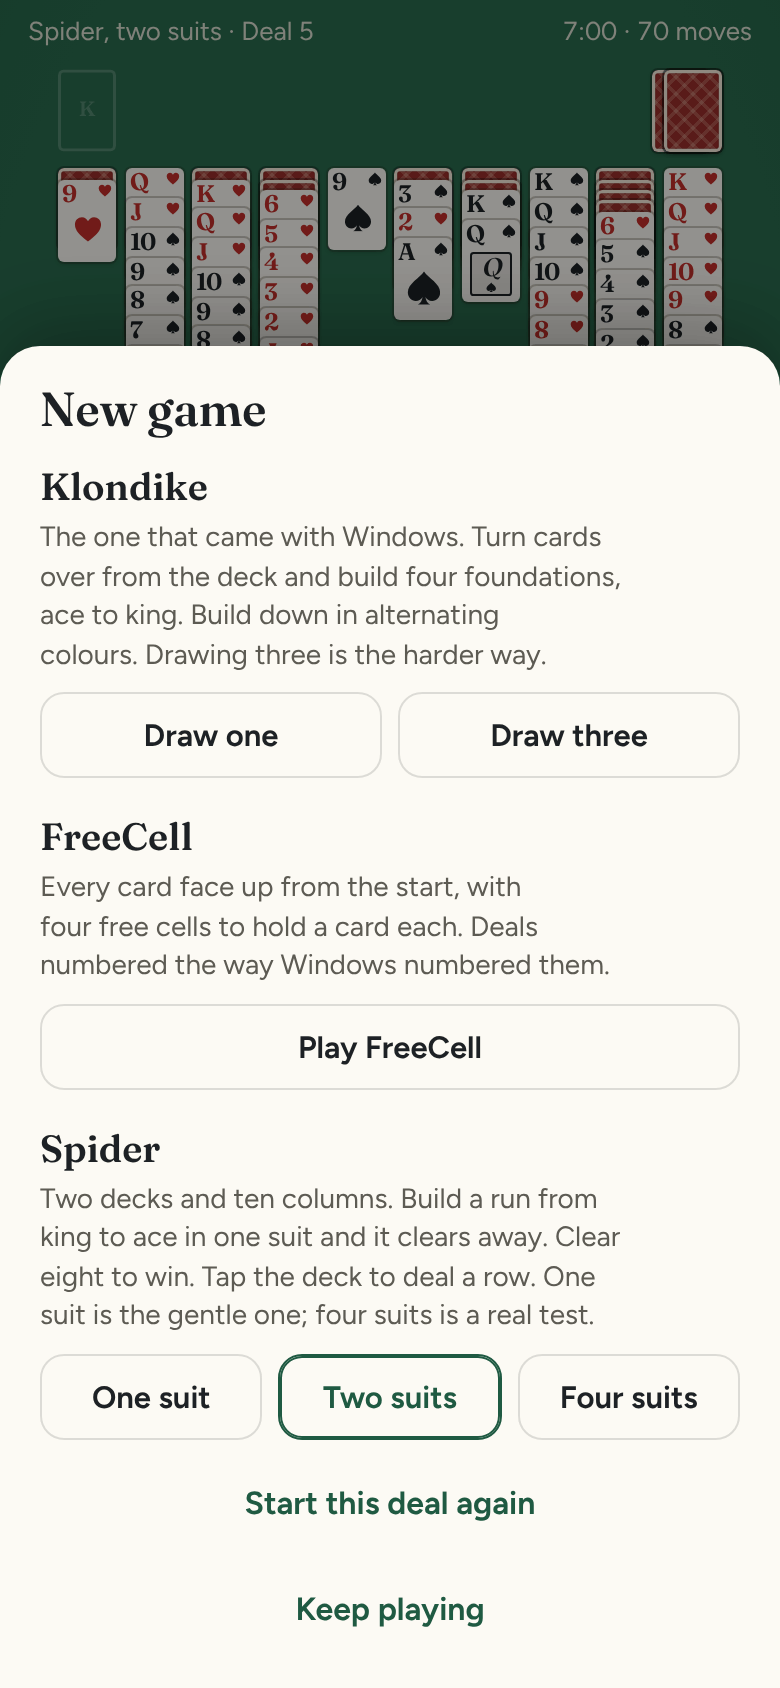
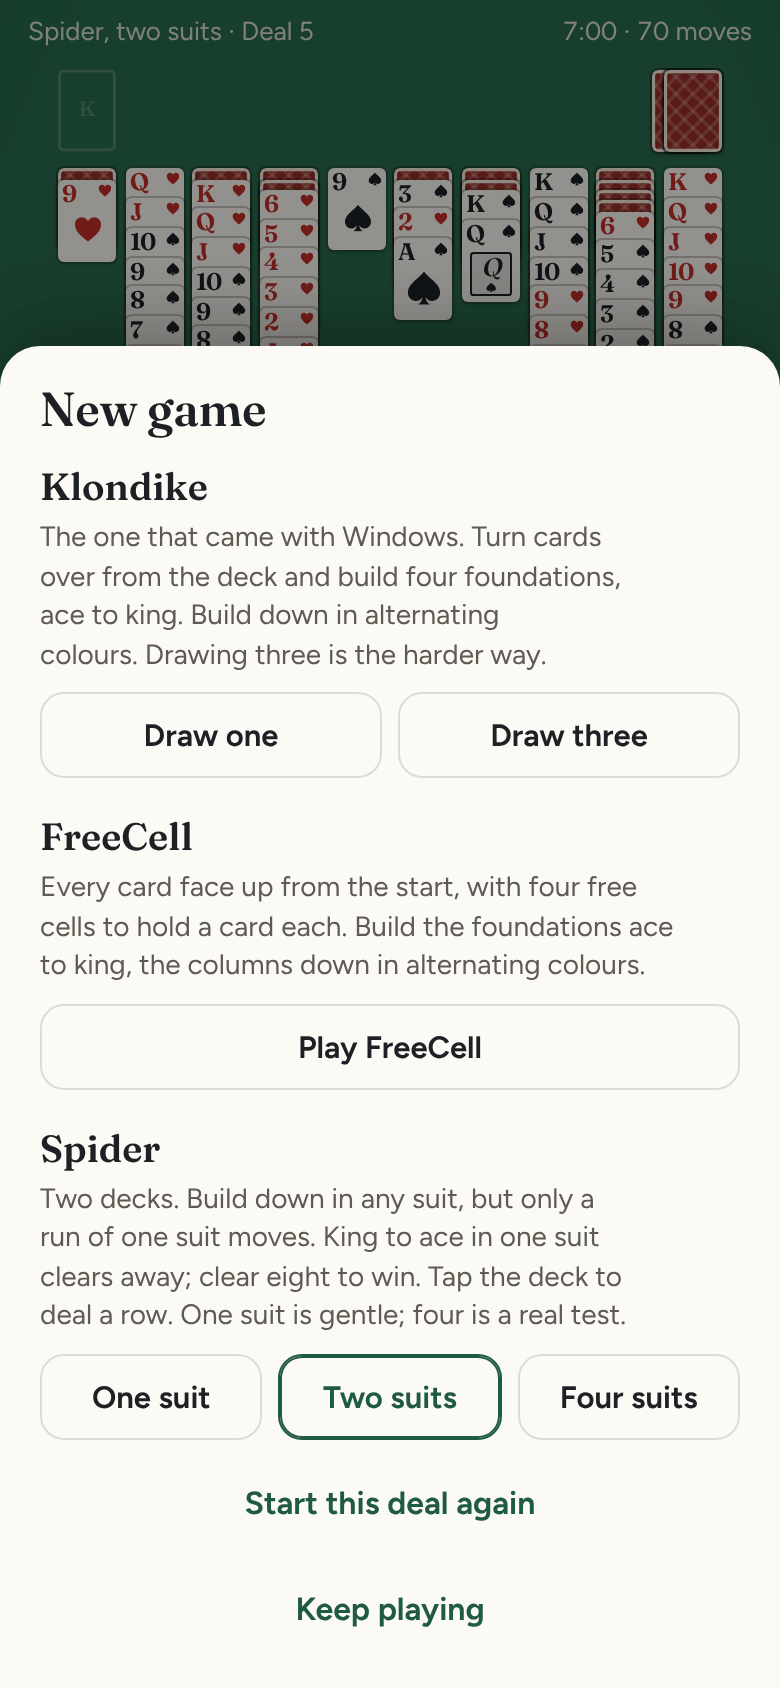
The New game sheet says how FreeCell is won and built, and that Spider builds on any suit
FreeCell's line never said to build the foundations ace to king or the columns down in alternating colours, and Spider's read as if cards could only go on their own suit, so a newcomer wouldn't put a 6 of hearts on a 7 of spades or know why a mixed run won't lift. FreeCell's line now gives both, and Spider's says to build down in any suit but that only a run of one suit moves. To keep the sheet the same height (held sideways it still doesn't scroll, and on a 360 by 740 phone it's no taller), the line about Windows' deal numbers moves into How to play under FreeCell, and Spider's line is a little shorter. The New game picture in the README is redrawn.

Claude-Session: https://claude.ai/code/session_01PQbLNWcaN23kNnArnK42HQ

Changed region(s): [[0.0615, 0.7085, 0.8, 0.8009], [0.0615, 0.5237, 0.8615, 0.5853]]

diff --git a/index.html b/index.html
@@ -56,12 +56,12 @@
         </div>
         <div class="pick">
           <h3>FreeCell</h3>
-          <p>Every card face up from the start, with four free cells to hold a card each. Deals numbered the way Windows numbered them.</p>
+          <p>Every card face up from the start, with four free cells to hold a card each. Build the foundations ace to king, the columns down in alternating colours.</p>
           <div class="row"><button type="button" class="choice" data-v="fc">Play FreeCell</button></div>
         </div>
         <div class="pick">
           <h3>Spider</h3>
-          <p>Two decks and ten columns. Build a run from king to ace in one suit and it clears away. Clear eight to win. Tap the deck to deal a row. One suit is the gentle one; four suits is a real test.</p>
+          <p>Two decks. Build down in any suit, but only a run of one suit moves. King to ace in one suit clears away; clear eight to win. Tap the deck to deal a row. One suit is gentle; four is a real test.</p>
           <div class="row"><button type="button" class="choice" data-v="s1">One suit</button><button type="button" class="choice" data-v="s2">Two suits</button><button type="button" class="choice" data-v="s4">Four suits</button></div>
         </div>
       </div>
@@ -118,6 +118,7 @@
             <li>In the eight columns, put cards in descending order with colours alternating. Any card can go in an empty column.</li>
             <li>Each of the four free cells on the left holds one card while you work.</li>
             <li>A run moves together if there's room to move it a card at a time: one card for each empty free cell, plus one, doubled for each empty column it isn't going into.</li>
+            <li>The deals are numbered the way the FreeCell that came with Windows numbered them, so game 617 here is game 617 there.</li>
           </ul>
         </details>
         <details data-game="spider">
